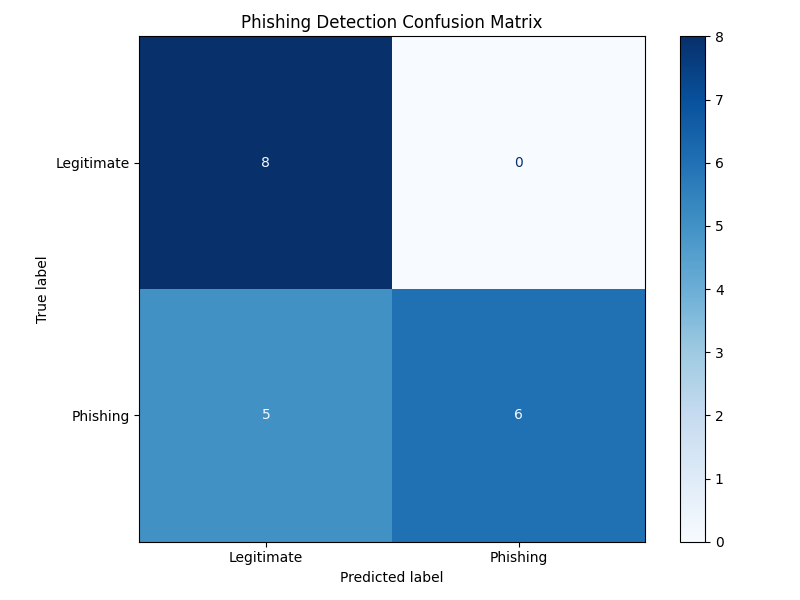
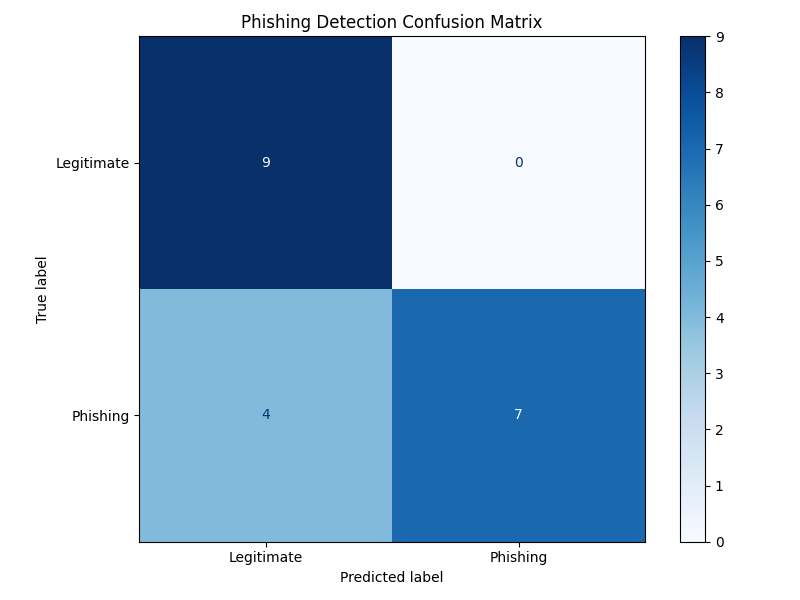
more fixes still not done

diff --git a/phishing-detector/phising-ml/features_extraction.py b/phishing-detector/phising-ml/features_extraction.py
@@ -245,18 +245,56 @@ def having_sub_domain(url):
 
 
 def domain_registration_length(domain):
-    expiration_date = domain.expiration_date
-    today = time.strftime('%Y-%m-%d')
-    today = datetime.strptime(today, '%Y-%m-%d')
-
-    registration_length = 0
-    # Disa domains nuk kane expiration date
-    if expiration_date:
+    """
+    Check domain registration length
+    Returns:
+      1 if domain registration length > 1 year (legitimate)
+     -1 if domain registration length <= 1 year (suspicious/phishing)
+    Handles all edge cases without crashing
+    """
+    try:
+        # Get today's date for comparison
+        today = datetime.now()
+        
+        # Handle case where expiration_date is None or N/A
+        if not domain.expiration_date:
+            return -1
+        
+        # Handle case where expiration_date is a list
+        expiration_date = domain.expiration_date
         if isinstance(expiration_date, list):
-            registration_length = abs((expiration_date[0] - today).days)
-        else:
-            registration_length = abs((expiration_date - today).days)
-    return -1 if registration_length / 365 <= 1 else 1
+            if not expiration_date:  # Empty list
+                return -1
+            expiration_date = expiration_date[0]
+        
+        # Handle different string formats or None value
+        if isinstance(expiration_date, str):
+            try:
+                # Try to parse common date formats
+                for fmt in ['%Y-%m-%d', '%d-%m-%Y', '%Y.%m.%d', '%d.%m.%Y', '%Y/%m/%d', '%d/%m/%Y']:
+                    try:
+                        expiration_date = datetime.strptime(expiration_date, fmt)
+                        break
+                    except ValueError:
+                        continue
+                else:  # If no format matched
+                    return -1
+            except Exception:
+                return -1
+        
+        # If expiration_date is still not a datetime object after all attempts
+        if not isinstance(expiration_date, datetime):
+            return -1
+            
+        # Calculate registration length in days
+        registration_length = (expiration_date - today).days
+        
+        # Return appropriate value based on registration length
+        return 1 if registration_length > 365 else -1
+        
+    except Exception as e:
+        print(f"Error in domain_registration_length: {e}")
+        return -1  # Default to suspicious if any error occurs
 
 
 def favicon(url, soup, domain):
@@ -426,18 +464,102 @@ def i_frame(soup):
 
 
 def age_of_domain(domain):
-    if isinstance(domain.creation_date,list):
-        creation_date = domain.creation_date[0]
-    else:
+    """
+    Check age of domain
+    Returns:
+      1 if domain age > 6 months (legitimate)
+     -1 if domain age <= 6 months or can't be determined (suspicious/phishing)
+    Handles all edge cases without crashing
+    """
+    try:
+        # Handle case where creation_date is None or N/A
+        if not domain.creation_date:
+            return -1
+            
+        # Handle case where creation_date is a list
         creation_date = domain.creation_date
-    if isinstance(domain.expiration_date,list):
-        expiration_date = domain.expiration_date[0]
-    else:
+        if isinstance(creation_date, list):
+            if not creation_date:  # Empty list
+                return -1
+            creation_date = creation_date[0]
+            
+        # Handle different string formats or None value for creation_date
+        if isinstance(creation_date, str):
+            try:
+                # Try to parse common date formats
+                for fmt in ['%Y-%m-%d', '%d-%m-%Y', '%Y.%m.%d', '%d.%m.%Y', '%Y/%m/%d', '%d/%m/%Y']:
+                    try:
+                        creation_date = datetime.strptime(creation_date, fmt)
+                        break
+                    except ValueError:
+                        continue
+                else:  # If no format matched
+                    return -1
+            except Exception:
+                return -1
+                
+        # If creation_date is still not a datetime object after all attempts
+        if not isinstance(creation_date, datetime):
+            return -1
+            
+        # Handle case where expiration_date is None or N/A
+        if not domain.expiration_date:
+            # If we have creation date but no expiration, calculate age from now
+            today = datetime.now()
+            age_days = (today - creation_date).days
+            return 1 if age_days > 180 else -1
+            
+        # Handle case where expiration_date is a list
         expiration_date = domain.expiration_date
-    ageofdomain = 0
-    if expiration_date:
-        ageofdomain = abs((expiration_date - creation_date).days)
-    return -1 if ageofdomain / 30 < 6 else 1
+        if isinstance(expiration_date, list):
+            if not expiration_date:  # Empty list
+                # Calculate age from now
+                today = datetime.now()
+                age_days = (today - creation_date).days
+                return 1 if age_days > 180 else -1
+            expiration_date = expiration_date[0]
+            
+        # Handle different string formats for expiration_date
+        if isinstance(expiration_date, str):
+            try:
+                # Try to parse common date formats
+                for fmt in ['%Y-%m-%d', '%d-%m-%Y', '%Y.%m.%d', '%d.%m.%Y', '%Y/%m/%d', '%d/%m/%Y']:
+                    try:
+                        expiration_date = datetime.strptime(expiration_date, fmt)
+                        break
+                    except ValueError:
+                        continue
+                else:  # If no format matched
+                    # Calculate age from now
+                    today = datetime.now()
+                    age_days = (today - creation_date).days
+                    return 1 if age_days > 180 else -1
+            except Exception:
+                # Calculate age from now
+                today = datetime.now()
+                age_days = (today - creation_date).days
+                return 1 if age_days > 180 else -1
+                
+        # If expiration_date is still not a datetime object
+        if not isinstance(expiration_date, datetime):
+            # Calculate age from now
+            today = datetime.now()
+            age_days = (today - creation_date).days
+            return 1 if age_days > 180 else -1
+
+        # Calculate domain age based on creation and expiration dates
+        try:
+            age_days = (expiration_date - creation_date).days / 2  # Rough estimate of age as half of registration period
+        except Exception:
+            # Fallback to current date if calculation fails
+            today = datetime.now()
+            age_days = (today - creation_date).days
+            
+        return 1 if age_days > 180 else -1  # 180 days = ~6 months
+        
+    except Exception as e:
+        print(f"Error in age_of_domain: {e}")
+        return -1  # Default to suspicious if any error occurs
 
 
 def web_traffic(url):
